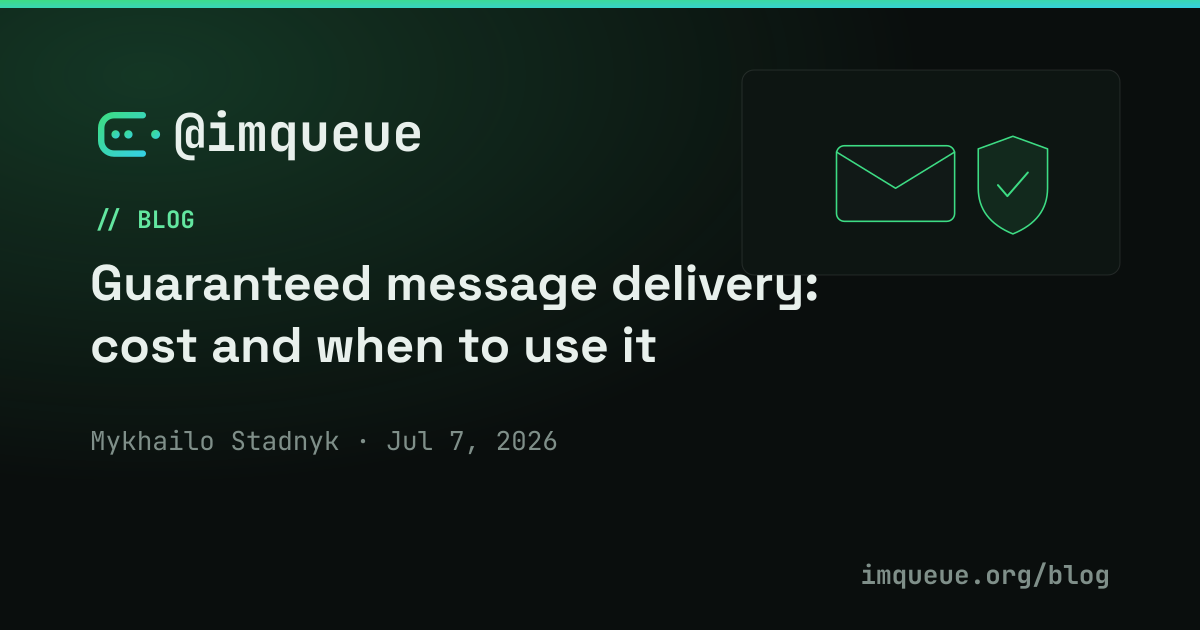
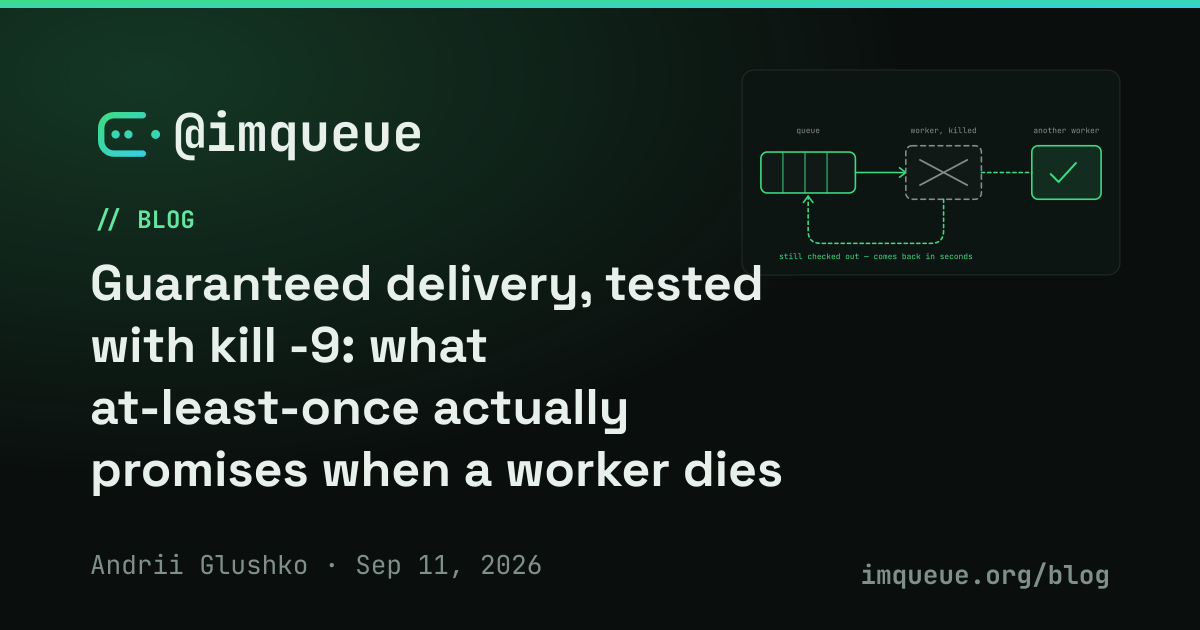
feat(blog): guaranteed delivery, tested with kill -9
Rewrites /blog/guaranteed-message-delivery-cost/ in place, keeping the URL and
the semantics section that owns its head-term cluster, and replacing the rest —
which was built on the claim that safe delivery covers only the hand-off — with
what the code does, measured against @imqueue/job 3.3.2, core 3.5.1 and
Redis 8.0.5:

- SIGKILL two seconds into an eight-second handler, three runs: the survivor
  started the job again after 7.4 s, 7.4 s and 7.3 s. The lease is held until
  the handler settles; death is seen from the broker's client list on the next
  sweep, and most of the remainder is the survivor taking over the watcher role.
- safeLockTtl is a processing deadline: 3 s against an 8 s handler started the
  same job three times in 13 s on a healthy worker. And the deadline is stamped
  when the blocking pop is issued, up to 5 s before a message arrives, so the
  10 s job default can leave five seconds of real budget — an 8 s handler was
  reclaimed at 8.5 s. Rule in the post: slowest handler + 5 s + headroom.
- drainRequeue cannot re-push on a JobQueueWorker at all: the class runs in
  WORKER mode and core's send() throws, logged as "drain re-queue failed …
  code unknown". The job comes back once through the lease. On a both-mode
  JobQueue the re-push lands and the survivor received the job three times:
  the re-push, the dead owner's lease, and the re-pushed copy's own lease
  expiring mid-run under the default. Off, either class: once.
[…]

diff --git a/src/org/blog/posts/guaranteed-message-delivery-cost.md b/src/org/blog/posts/guaranteed-message-delivery-cost.md
@@ -2,58 +2,343 @@
 layout: post.html
 permalink: /blog/guaranteed-message-delivery-cost/
 templateEngineOverride: md
-title: "Guaranteed message delivery: cost and when to use it"
-summary: "\"Will I lose messages if a worker dies?\" is the right question — and the answer is a trade-off, not a yes/no. Here's how guaranteed delivery works, what it costs, and how to choose per workload."
-description: "How guaranteed (safe) message delivery works versus fast unreliable delivery, the throughput cost, and a decision guide for choosing per workload with @imqueue."
-keywords: "guaranteed message delivery nodejs, at-least-once delivery, at-most-once delivery, exactly-once delivery, message delivery semantics, delivery guarantees, is exactly once delivery possible, idempotent consumer, reliable messaging, safe delivery, message loss, imqueue"
-date: 2026-07-07
-author: mykhailo-stadnyk
-illustration: delivery
-topics: [delivery, queue, resilience]
+title: "Guaranteed delivery, tested with kill -9: what at-least-once actually promises when a worker dies"
+summary: "\"Will I lose messages if a worker dies?\" is the right question, and for a year this page answered it wrong. Here is what guaranteed (at-least-once) delivery really promises — measured by killing workers mid-job — what the one deadline actually governs, what a drain does and doesn't save, what it costs, and how to choose per workload."
+description: "What guaranteed, at-least-once message delivery really promises when a worker is killed mid-job: the lease holds through the handler, recovery within a sweep, the processing deadline that duplicates slow handlers, the throughput cost, and a per-workload decision guide for @imqueue."
+keywords: "guaranteed message delivery nodejs, at-least-once delivery, at-most-once delivery, exactly-once delivery, message delivery semantics, delivery guarantees, is exactly once delivery possible, idempotent consumer, reliable messaging, safe delivery, message loss, worker crash mid job, job re-delivered after crash, kill -9 worker job queue, safeLockTtl processing deadline, drainRequeue duplicate, imqueue"
+date: 2026-09-11
+author: andrii
+illustration: worker-death
+topics: [delivery, queue, resilience, jobs]
 ogType: article
 ---
 
-The first serious question anyone asks about a message-based system is: "if a worker grabs a message and then crashes, is that message lost?" It's the right question. The answer isn't a simple yes or no — it's a trade-off you should make deliberately, per workload, with your eyes open about the cost.
+The first serious question anyone asks about a message-based system is: *if a
+worker grabs a message and then crashes, is that message lost?* It is the right
+question. It is also a question this page used to answer wrong, and so did our
+own reference documentation, for about a year.
+
+The old answer was that guaranteed delivery protects the *hand-off* — the moment
+between a worker taking a message and starting on it — and nothing after. A
+worker killed three seconds into the actual work, we said, loses that attempt
+like any other. That is not what the code does, and it never was. So rather than
+patch a sentence, we went back and did what should have been done the first
+time: killed workers mid-job, with `SIGKILL`, and watched what happened to the
+work they were holding.
+
+This is the corrected page. The semantics section at the top is unchanged,
+because it was right. Everything after it is measured.
 
 ## The three delivery semantics, and the one that doesn't exist
 
-Every broker's documentation uses the same three names, so it's worth being precise about what each one promises before choosing.
+Every broker's documentation uses the same three names, so it is worth being
+precise about what each one promises before choosing.
 
-- **At-most-once.** The message is delivered zero or one times. Send it, don't track it, accept that a crash loses it. Cheapest, and honest for telemetry or cache warmups.
-- **At-least-once.** The message is delivered one or more times. Delivery is tracked until the consumer confirms, and an unconfirmed message is redelivered — which means duplicates are not an edge case, they are the guarantee. This is what "guaranteed delivery" means, here and in RabbitMQ, SQS, NATS JetStream and Kafka alike.
-- **Exactly-once.** The message is processed once, no more and no less. **As a delivery guarantee this is not achievable**, and no broker provides it however the marketing is worded.
+- **At-most-once.** The message is delivered zero or one times. Send it, don't
+  track it, accept that a crash loses it. Cheapest, and honest for telemetry or
+  cache warmups.
+- **At-least-once.** The message is delivered one or more times. Delivery is
+  tracked until the consumer confirms, and an unconfirmed message is redelivered
+  — which means duplicates are not an edge case, they are the guarantee. This is
+  what "guaranteed delivery" means, here and in RabbitMQ, SQS, NATS JetStream
+  and Kafka alike.
+- **Exactly-once.** The message is processed once, no more and no less. **As a
+  delivery guarantee this is not achievable**, and no broker provides it however
+  the marketing is worded.
 
-The reason is worth stating plainly, because it decides how you write consumers. Delivery involves two separate actions — doing the work, and recording that the work was done — on two different machines, and a crash can land between them. Whichever order you pick, you get at-most-once (record first) or at-least-once (record last). There is no third order. This is the [Two Generals problem](https://en.wikipedia.org/wiki/Two_Generals%27_Problem), and it does not yield to a better library.
+The reason is worth stating plainly, because it decides how you write
+consumers. Delivery involves two separate actions — doing the work, and
+recording that the work was done — on two different machines, and a crash can
+land between them. Whichever order you pick, you get at-most-once (record first)
+or at-least-once (record last). There is no third order. This is the
+[Two Generals problem](https://en.wikipedia.org/wiki/Two_Generals%27_Problem),
+and it does not yield to a better library.
 
-What *is* achievable is **exactly-once processing**, and the distinction is the useful part: you get it by making the *effect* idempotent rather than the delivery unique. Kafka's transactions and SQS FIFO deduplication are both this — deduplication at the consumer, given an at-least-once transport underneath. So the practical rule is: pick at-least-once for anything that matters, then make the handler safe to run twice. The rest of this post is about what that costs.
+What *is* achievable is **exactly-once processing**, and the distinction is the
+useful part: you get it by making the *effect* idempotent rather than the
+delivery unique. Kafka's transactions and SQS FIFO deduplication are both this —
+deduplication at the consumer, given an at-least-once transport underneath. So
+the practical rule is: pick at-least-once for anything that matters, then make
+the handler safe to run twice. The rest of this post is about what that promises
+and what it costs.
 
-## Two honest modes
+## Two modes, and what each one promises when a worker dies
 
-`@imqueue` offers two delivery modes, and the difference is exactly about that crash scenario.
+`@imqueue` offers two delivery modes, and the difference is exactly the crash
+scenario.
 
-**Unreliable (fast) delivery.** A consumer takes a message and processes it. If it crashes before finishing, that message is gone. This is the fastest mode — there's no bookkeeping — and it's the right default for work that is frequent, idempotent-on-retry-elsewhere, or simply not costly to miss (think best-effort notifications, cache warmups, telemetry).
+**Unreliable (fast) delivery.** A consumer pops a message and processes it. If
+the process dies before finishing, that message is gone — there is no record
+anywhere that it was ever taken. This is the fastest mode, because there is no
+bookkeeping, and it is the right default for work that is frequent and cheap to
+miss: best-effort notifications, cache warmups, telemetry.
 
-**Guaranteed (safe) delivery.** As a consumer takes a message, it's atomically moved into that consumer's own "processing" holding area, so a process that dies *between* taking a message and starting on it leaves the message behind to be **rescheduled** to another instance instead of swallowing it. The protection covers the whole handler, not just the hand-off: the entry is held until the listener's promise settles, so a consumer killed part-way through the work — `SIGKILL` included — leaves the message checked out, and the watcher returns it to the queue within seconds of the owner dropping off the broker's client list. What it does not do is finish the attempt: the message is re-run from the start elsewhere. This is still what you want for work that must not vanish — placing an order, charging a card, kicking off a payout — paired with a [drain on shutdown](/blog/graceful-shutdown-zero-drop-deploys/) for the planned case.
+**Guaranteed (safe) delivery.** Popping a message moves it atomically out of the
+queue into a key owned by that worker, and — this is the part we had wrong — the
+key is held until the handler's promise settles, not until the handler starts.
+The whole attempt is covered. A worker that dies at any point before the
+handler returns, whether it had only just popped the message or was seven
+seconds into a nine-second job, leaves the message checked out to a process
+that no longer exists. The watcher notices that process is gone and moves the
+message back onto the queue for another worker.
+
+Two mechanisms decide that a checked-out message has been abandoned, and they
+are for different failures:
+
+1. **The owner has left the broker's client list.** The worker key names the
+   process that holds it; on each sweep the watcher reads Redis's `CLIENT LIST`
+   and any key whose owner is no longer connected is returned to the queue. This
+   is how a *dead* worker is detected — from the broker's connection state, as
+   fast as the socket closes, with nothing to renew and no clock involved.
+2. **The deadline has passed.** Each key carries the time by which its message
+   should have been handled. This is how a *live* worker with one wedged handler
+   is detected, since liveness can't see that case. It is a processing deadline,
+   and it has a trap of its own, below.
+
+Safe delivery is off by default in `@imqueue/core` and `@imqueue/rpc`, and on
+by default in `@imqueue/job` — a job queue is the case where the extra
+round-trip is worth paying.
+
+## kill -9, measured
+
+Two workers on the same queue, each with a handler that takes eight seconds. Push
+one job. Two seconds after one worker logs that it has started on it, send that
+worker `SIGKILL` — no signal handler, no cleanup, no chance to say anything to
+Redis. Then time how long until the *other* worker starts the same job.
+
+Three runs, on Redis 8.0.5 and Node.js 24 with `@imqueue/job` 3.3.2, default
+settings:
+
+| run | killed | job started again on the survivor after |
+|---|---|---|
+| 1 | 2.0 s into the handler | 7.4 s |
+| 2 | 2.0 s into the handler | 7.4 s |
+| 3 | 2.0 s into the handler | 7.3 s |
+
+The job came back every time, and it came back in about seven seconds.
+Nothing about that depends on the killed handler having been polite: `SIGKILL`
+gives a process no opportunity to release anything, which is the point of the
+test. The floor is the watcher's sweep, which runs every `watcherCheckDelay` —
+five seconds by default — and reads the client list on each pass; most of the
+remainder is a survivor taking over the watcher role the dead process was
+holding. What matters is the shape: seconds, bounded by a setting you control,
+and not dependent on any deadline the job was pushed with.
+
+What the job did *not* do is finish where it started. The survivor ran the
+handler again from the beginning. That is the whole meaning of at-least-once,
+and it is why the handler has to be safe to run twice: a payment that had
+already been submitted when the worker died is submitted again by the survivor
+unless the handler checks first.
+
+## The deadline is for a live worker, and it will duplicate a slow one
+
+`safeDeliveryTtl` in core — exposed as `safeLockTtl` by `@imqueue/job` — is not
+how a crash is recovered. Crashes are caught by the client list, above,
+regardless of this value. The deadline exists for the one failure liveness
+cannot see: a worker that is up, connected, serving other messages, and stuck
+on this one.
+
+Which makes it a **processing deadline**, and that has a consequence that is
+easy to miss until it costs you. A handler that legitimately takes longer than
+the deadline looks, to the watcher, exactly like a wedged one. Its message is
+reclaimed from a worker that is still working on it and handed to another —
+which may be the same worker, popping its own job a second time while the first
+attempt is still running.
+
+Measured: one worker, `safeLockTtl` of three seconds, a handler that takes
+eight:
+
+| | |
+|---|---|
+| times the same job **started** in 13 seconds | **3** |
+| at | 0.0 s, 4.9 s and 9.9 s |
+
+Every attempt overran the deadline, so every attempt was reclaimed and started
+again, on a worker that was never unhealthy for a moment. With no
+[`ttl`](/api/job/latest/job.pushoptions.ttl/) on the push, that continues
+until something stops it.
+
+There is a second subtraction hiding in that number. The deadline is stamped
+when the worker *issues* its blocking pop, not when a message arrives, and that
+pop blocks for up to five seconds. A message that lands late in the block
+starts its handler with up to five seconds of its budget already spent. Under
+a 10-second setting that is as little as **five seconds of real processing
+time** — we watched an eight-second handler on a healthy worker get reclaimed
+at 8.5 s for exactly this reason.
+
+The defaults make this worth checking today rather than after an incident.
+`@imqueue/core` defaults the deadline to **300 seconds**. `@imqueue/job` lowers
+it to **10 seconds** — and a job queue is precisely where handlers take a long
+time. Set `safeLockTtl` to your slowest handler, plus five seconds for the pop
+window, plus headroom, and treat a handler that reaches it as a bug to fix
+rather than a retry to welcome.
+
+## A drain finishes work; it does not save it
+
+The natural next question is what a graceful shutdown adds, given that a killed
+worker's job comes back anyway. The honest answer is *completion*, not
+*durability*, and the distinction changes how one option should be set.
+
+With `drain` on, `SIGTERM` stops the worker popping, waits up to `drainTimeout`
+for the handlers already running, and exits. The job it was working on finishes
+*here*, once, instead of being abandoned and replayed from the start on another
+worker. That is what a drain is for: a deploy that rolls through a fleet
+without re-running every in-flight job.
+
+`@imqueue/job` adds `drainRequeue`, on by default, which pushes whatever the
+budget ran out on back onto the queue before exiting. It was written on the
+same wrong model as the old version of this page — the belief that an abandoned
+job was checked out to nobody and nothing else would bring it back. Under safe
+delivery that job is still checked out, because its handler never settled, and
+the lease returns it once the process is gone. So the re-push can only ever add
+a copy. Measured, with a one-second drain budget against an eight-second
+handler, `SIGTERM` sent one second into the job, and a second worker waiting:
+
+| draining process | `drainRequeue` | what the survivor received |
+|---|---|---|
+| `JobQueueWorker` | off | the job once, 8.6 s after the signal — the lease |
+| `JobQueueWorker` | on (default) | the job once, 8.6 s after the signal — and the draining worker logged `drain re-queue failed … code unknown` |
+| `JobQueue` (pushes and handles) | off | the job once, 8.6 s after the signal |
+| `JobQueue` (pushes and handles) | on (default) | the job **three** times: at 1.0 s from the re-push, then twice at 8.6 s — the dead process's lease, and the re-pushed copy's *own* lease, which had already expired while the survivor was still working on it |
+
+The second row is a defect rather than a feature: a `JobQueueWorker` opens a
+worker-only connection that cannot send, so its re-push throws every time and
+the option silently does nothing — the job came back through the lease alone,
+exactly as it would have with the option off. On a `JobQueue`, which can send,
+the re-push lands, and then the lease returns the same job again when the
+process is gone. The third copy in that row is the deadline trap from the
+previous section striking the survivor: it popped the re-pushed copy with only
+part of its budget left and was reclaimed mid-run.
+
+Turn `drainRequeue` off when safe delivery is on, on either class. It is the
+sole recovery only with `safe: false`, where nothing else holds the job.
 
 ## What guaranteed delivery costs
 
-Safety isn't free, and it's useful to know the shape of the bill. In a recent `@imqueue/core` benchmark run — a 24-core Intel Core Ultra 9 275HX, Node.js 24, ~1 KB messages — unreliable delivery reached **~200,000 round-trip msg/sec** and guaranteed delivery **~120,000 msg/sec**. So safe mode costs roughly **40% of throughput** (about 1.7× slower), keeping ~60%. Your numbers will differ with hardware and message size — see the [benchmark post](/blog/benchmarking-imqueue-throughput/) for the full run and how to reproduce it.
+Safety is not free, and the shape of the bill is worth knowing. In a
+`@imqueue/core` benchmark run — a 24-core Intel Core Ultra 9 275HX, Node.js 24,
+~1 KB messages — unreliable delivery reached **~200,000 round-trip msg/sec** and
+guaranteed delivery **~120,000 msg/sec**. Safe mode costs roughly **40% of
+throughput**, keeping about 60%. Your numbers will differ with hardware and
+message size; the [benchmark post](/blog/benchmarking-imqueue-throughput/) has
+the full run and how to reproduce it.
 
-That's a very reasonable price for "never lose this message," and the key insight is that **you don't pay it globally.** You choose per queue. Latency-critical, loss-tolerant paths stay in the fast mode; critical paths run safe. You're not forced into one guarantee for the whole system.
+That is a reasonable price for "this message survives the worker dying", and
+the key point is that **you don't pay it globally.** It is chosen per queue.
+Latency-critical, loss-tolerant paths stay fast; the paths that place orders and
+move money run safe.
 
-## The knob, and what it actually governs
+## Choosing per workload
 
-Guaranteed mode stamps each hand-off with a **time-to-live** (`safeDeliveryTtl`, default 5 seconds; `safeLockTtl` through `@imqueue/job`). A sweep running on that same interval reclaims holding-area entries whose TTL has passed and puts them back on the queue. That's the mechanism behind rescheduling — and it is easy to read more into it than it does:
+Two questions about each kind of message:
 
-> A slow-but-healthy task **is** re-queued for being slow: `safeDeliveryTtl` is a processing deadline, and a handler that outlives it has its message reclaimed from a live worker and handed to another one, so it runs twice. Set it above your longest handler, with headroom. It is not how a dead worker is detected — that comes from the broker's client list, within seconds, regardless of the TTL.
+1. **If this is lost, does it matter?** If no, unreliable is fine and faster. If
+   yes, guaranteed — and it now protects the whole attempt, not the first
+   millisecond of it.
+2. **Is the handler safe to run twice?** Guaranteed delivery is at-least-once: a
+   job whose worker died is replayed from the start, a job that outruns the
+   deadline is replayed while still running, and `@imqueue/job` re-schedules a
+   job whose handler throws. Design critical handlers to be **idempotent** — an
+   idempotency key, a dedupe check, a "was this already done" read before the
+   side effect.
 
-So tune it for recovery latency rather than against your p99: shorter brings an abandoned message back sooner, longer sweeps less often. What survives a restart that lands mid-handler is a [drain on shutdown](/blog/graceful-shutdown-zero-drop-deploys/), not this TTL.
+And three settings that the measurements above make concrete:
 
-## A quick decision guide
+| setting | set it to | because |
+|---|---|---|
+| `safeLockTtl` / `safeDeliveryTtl` | slowest handler + 5 s (the pop window) + headroom | it is a processing deadline, and up to 5 s of it can be spent before the handler starts; a live handler past it is reclaimed and duplicated |
+| `drainRequeue` | `false` under safe delivery | the lease already brings the job back; the re-push is a second copy |
+| `drain` + `drainTimeout` | on, with a budget longer than your slowest handler | a drain finishes work in place instead of replaying it elsewhere |
 
-Ask two questions about each kind of message:
+Match the mode to the message and you get both: raw speed where loss is
+acceptable, and a guarantee where it isn't that actually covers the work.
 
-1. **If this is lost, does it matter?** If no → unreliable is fine, and faster. If yes → guaranteed.
-2. **Is the work idempotent?** Guaranteed delivery is *at-least-once*: a message can be processed more than once (a hand-off whose release didn't land can be swept back onto the queue while the first consumer is still working, and `@imqueue/job` re-sends a job whose handler throws). So design critical handlers to be **idempotent** — safe to run twice — using an idempotency key or a dedupe check. This matters regardless of framework; at-least-once is the honest guarantee, not exactly-once.
+## FAQ
 
-Match the mode to the message and you get the best of both: raw speed where loss is acceptable, and durability where it isn't — without paying for durability everywhere. The delivery options are covered in the [API reference](/api/); [Getting Started](/get-started/) gets you a service to try them on.
+### Will I lose a message if a worker crashes mid-handler?
+
+Not under guaranteed (safe) delivery. The message is moved into a key owned by
+the worker when it is popped, and that key is held until the handler's promise
+settles — not merely until the handler starts. A worker killed at any point
+before then, `SIGKILL` included, leaves the message checked out, and the
+watcher returns it to the queue for another worker once the dead process has
+left the broker's client list. Measured three times: re-delivered in
+7.3–7.4 seconds. Under unreliable delivery the message is lost.
+
+### Is exactly-once delivery possible?
+
+No. Doing the work and recording that it was done are two actions on two
+machines, and a crash can fall between them; whichever you do first gives you
+at-most-once or at-least-once. Exactly-once *processing* is achievable by making
+the handler idempotent on top of at-least-once delivery, which is what Kafka
+transactions and SQS FIFO deduplication actually do.
+
+### What does at-least-once delivery mean in practice?
+
+That duplicates are part of the guarantee, not a failure of it. A message is
+redelivered whenever the system cannot prove it was handled: the worker died
+mid-handler, the handler outran its deadline, or the handler threw. Every one
+of those replays the handler from the start, so the handler must be safe to run
+more than once.
+
+### How quickly is a crashed worker's message re-delivered?
+
+Within one watcher sweep of the process disappearing from Redis's client list —
+`watcherCheckDelay`, five seconds by default — plus a little more if the dead
+process held the watcher role and a survivor has to take it over. Measured at
+7.3–7.4 seconds across three `SIGKILL` runs. It does not wait for
+`safeLockTtl`.
+
+### What is safeLockTtl (safeDeliveryTtl) actually for?
+
+A processing deadline: the longest a live worker may hold a message before the
+watcher treats the handler as wedged and re-queues the message. It is not how a
+crash is recovered — that comes from the client list. A healthy handler that
+runs past it is reclaimed and duplicated. The clock starts when the worker
+issues its blocking pop, up to five seconds before a message arrives, so set it
+to your slowest handler plus five seconds plus headroom. The default is 300
+seconds in `@imqueue/core` and 10 seconds in `@imqueue/job`.
+
+### What happens to a job when I drain a worker on deploy?
+
+The drain waits up to `drainTimeout` for the running handler, so the job
+finishes in place rather than being replayed elsewhere. A job the budget runs out
+on is still checked out and comes back through the lease once the process exits.
+With `drainRequeue` on — the default in `@imqueue/job` — a `JobQueue` also pushes
+it back explicitly, so the survivor receives it more than once; on a
+`JobQueueWorker` the re-push cannot send at all and fails with `code unknown`,
+so the option does nothing there. Measured either way: turn it off under safe
+delivery.
+
+### What does guaranteed delivery cost?
+
+About 40% of throughput on one measured rig — roughly 200,000 round-trip
+messages per second unreliable against 120,000 guaranteed, for ~1 KB messages —
+and it is chosen per queue, so only the queues that need it pay.
+
+### Do handlers have to be idempotent?
+
+Yes, for anything on a guaranteed queue. At-least-once means the handler runs
+again from the start after a crash, after a deadline overrun, and after a throw.
+An idempotency key or a check for the effect before producing it is what turns
+at-least-once delivery into exactly-once processing.
+
+## Reference
+
+- [`IMQOptions.safeDelivery`](/api/core/latest/core.imqoptions.safedelivery/) —
+  the contract, where the behaviour lives
+- [`IMQOptions.safeDeliveryTtl`](/api/core/latest/core.imqoptions.safedeliveryttl/)
+  — the processing deadline
+- [`IMQOptions.watcherCheckDelay`](/api/core/latest/core.imqoptions.watchercheckdelay/)
+  — the sweep interval that bounds recovery
+- [`JobQueueOptions.safe`](/api/job/latest/job.jobqueueoptions.safe/),
+  [`safeLockTtl`](/api/job/latest/job.jobqueueoptions.safelockttl/),
+  [`drain`](/api/job/latest/job.jobqueueoptions.drain/) and
+  [`drainRequeue`](/api/job/latest/job.jobqueueoptions.drainrequeue/) — the
+  job-queue settings
+- [What happens to a job if the worker dies while handling it?](/api/faq/#what-happens-to-a-job-if-the-worker-dies-while-handling-it)
+  — the short answer, in the FAQ
+- [Graceful shutdown and zero-drop deploys](/blog/graceful-shutdown-zero-drop-deploys/)
+  — the drain, end to end
+- [Benchmarking @imqueue: throughput and delivery modes](/blog/benchmarking-imqueue-throughput/)
+  — where the cost figures come from
